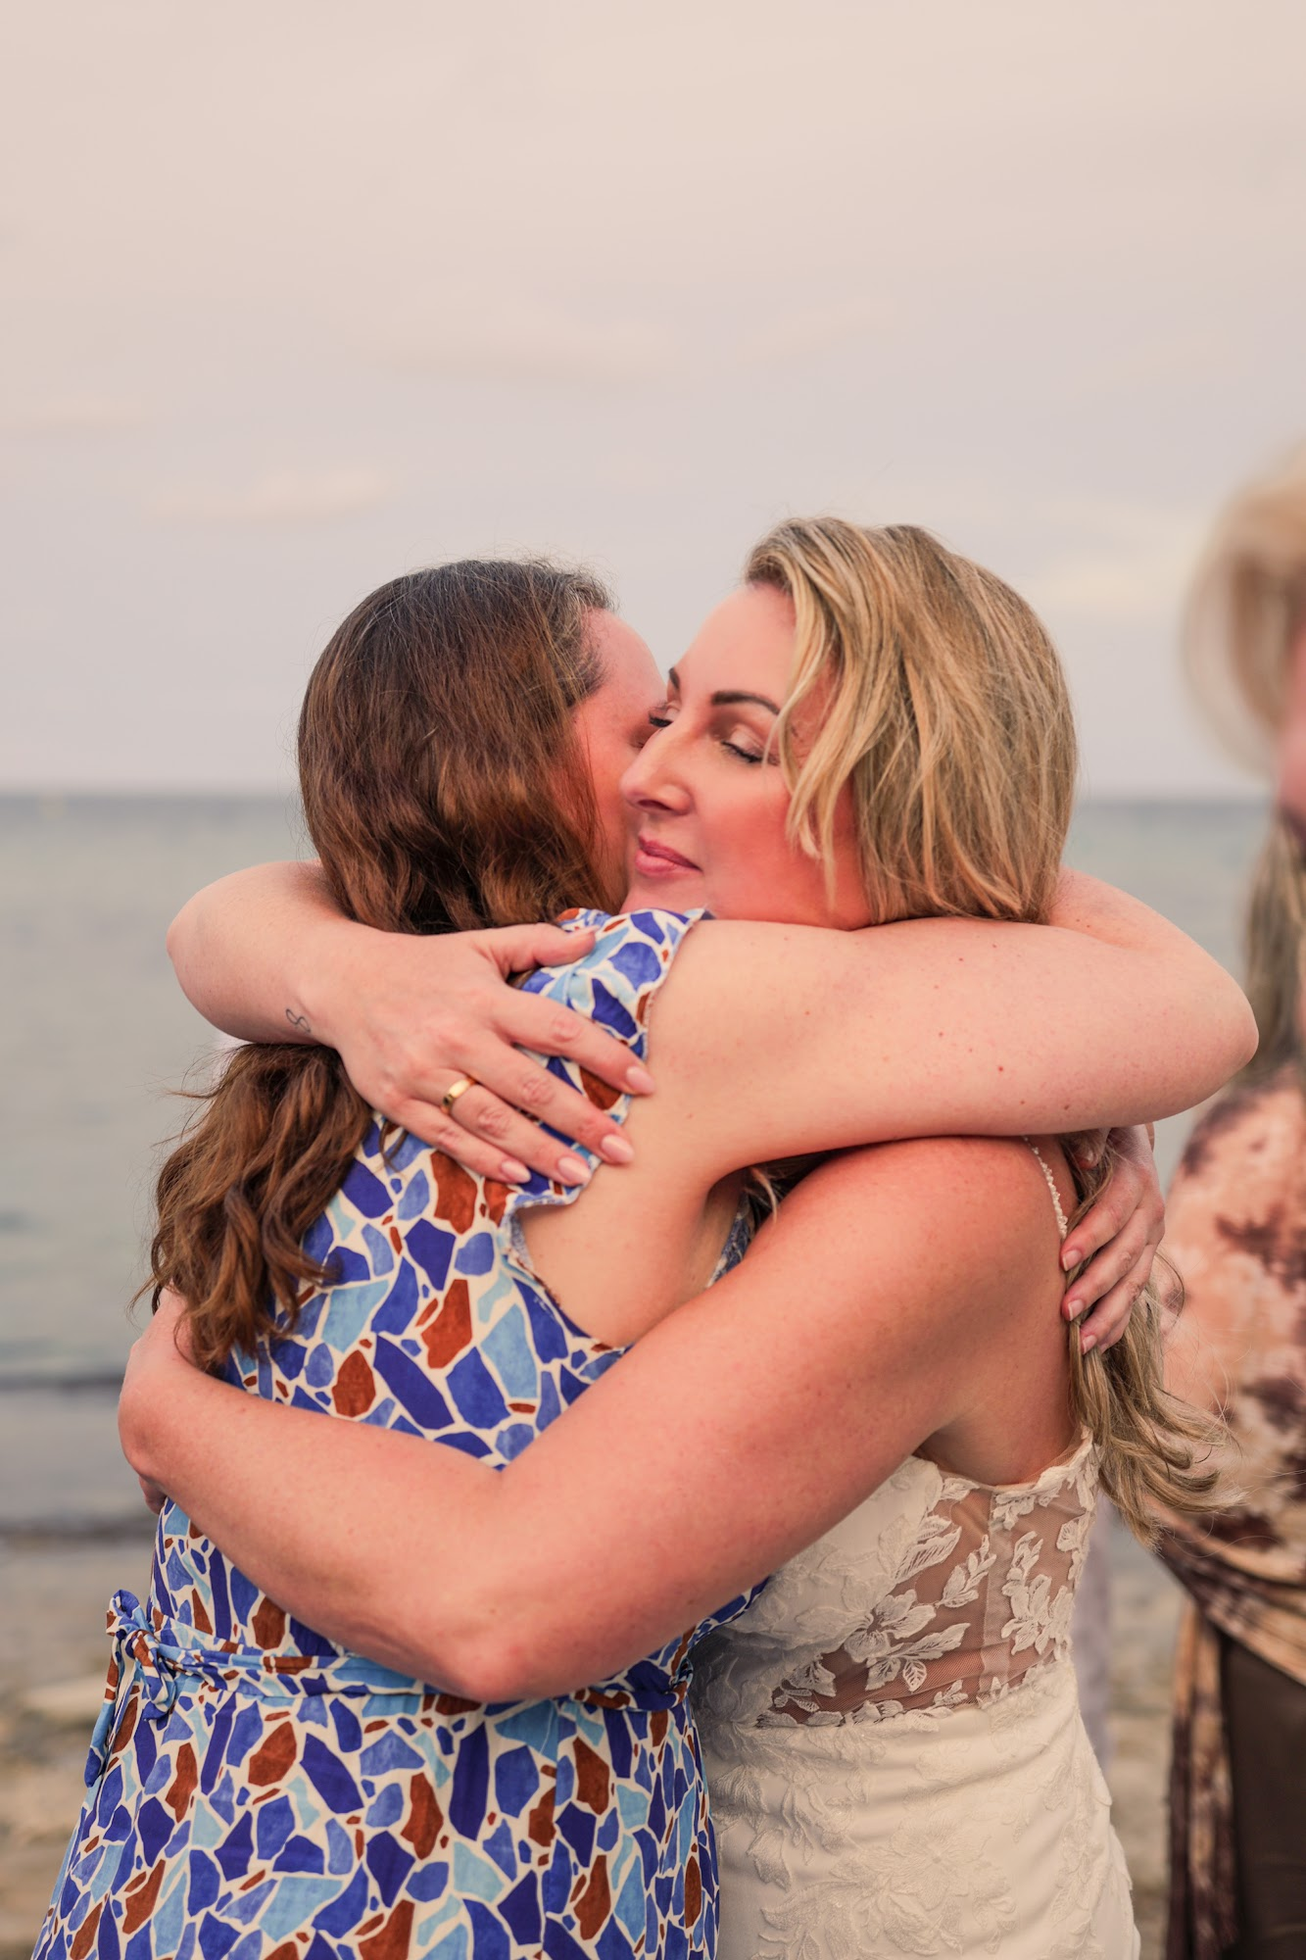
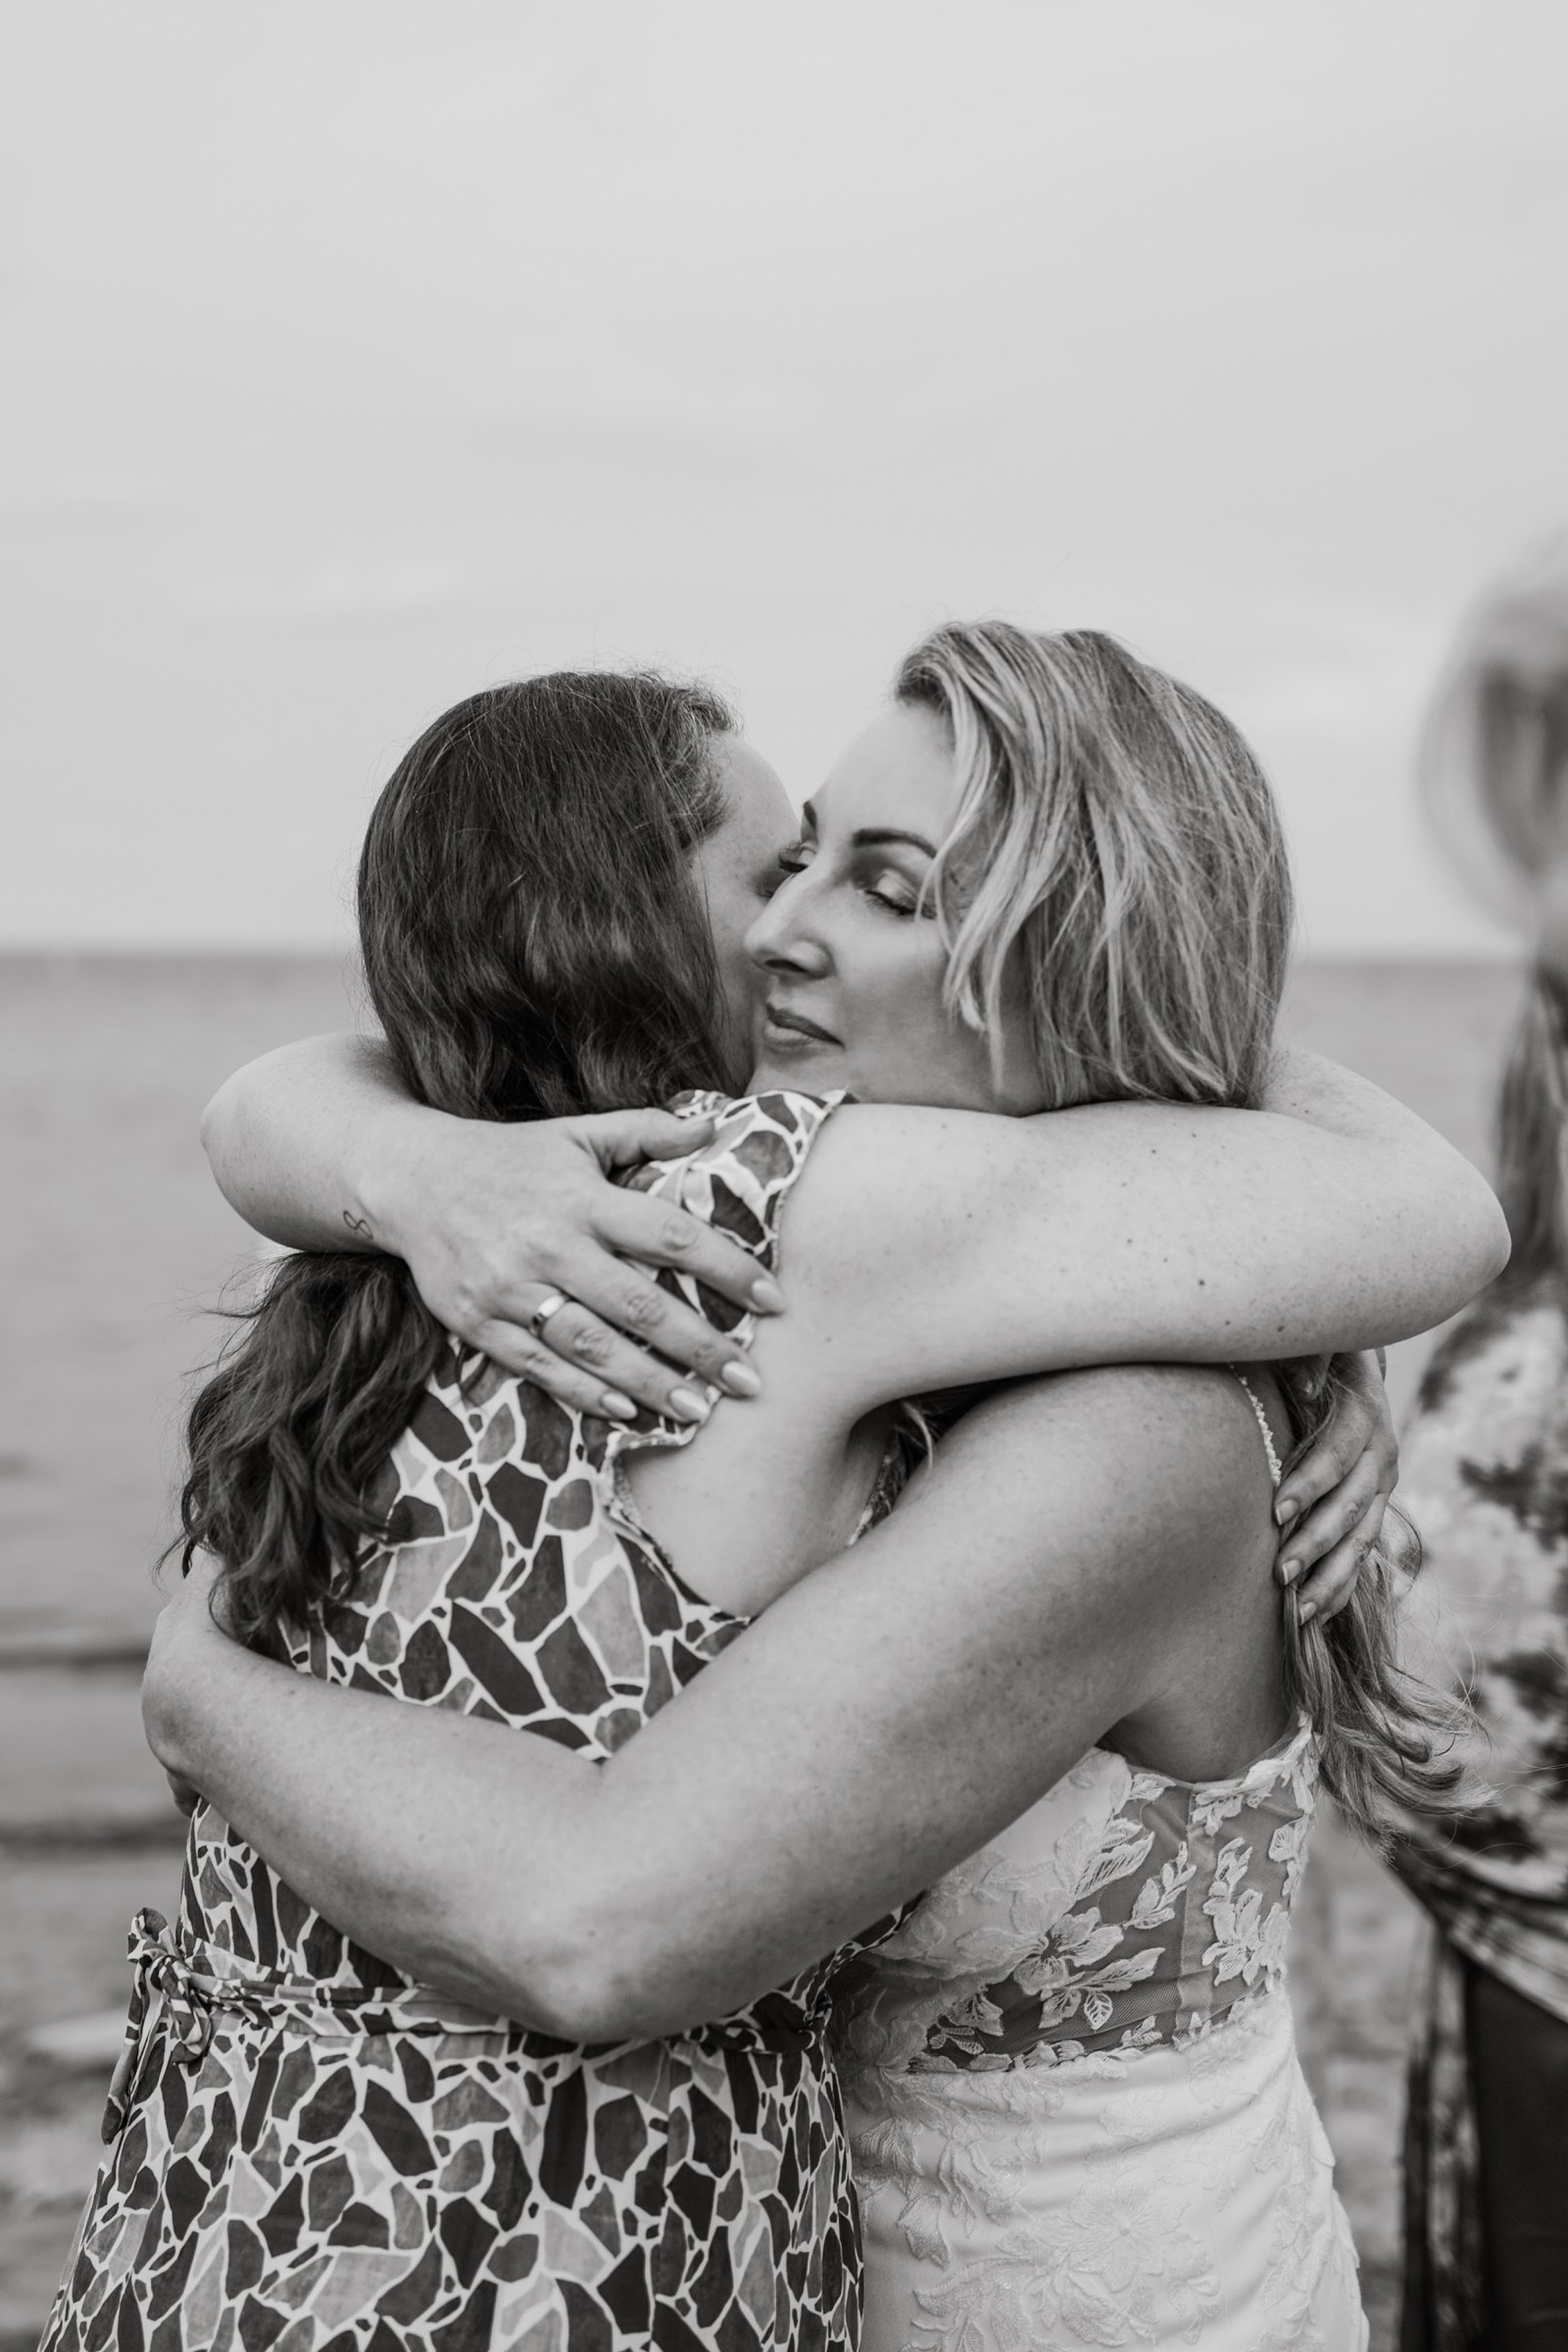
Portada con la selección de fotos de Clara
- 15 fotos nuevas de la boda (5 en blanco y negro) y 4 sustituidas por versiones de más calidad
- Portada: presentación, plano general de la ceremonia a sangre, bloque de bodas, trío en blanco y negro y banda de portfolio con la selección
- Textos de la portada centrados en bodas

Claude-Session: https://claude.ai/code/session_01H74FPhe1UEhSmD7aGRMZvE

diff --git a/src/config/especialidades.ts b/src/config/especialidades.ts
@@ -46,7 +46,7 @@ export const especialidades: Especialidad[] = [
     nombre: 'Bodas',
     busqueda: 'Fotógrafa de bodas',
     categorias: ['Bodas'],
-    portada: 'boda-beso-arco.jpg',
+    portada: 'boda-novios-arco-sonrisa.jpg',
     resumen: 'Vuestro día contado de principio a fin, sin poses forzadas.',
     descripcion:
       'Fotógrafa de bodas en la playa y en la ciudad. Mira una boda real entera, de los preparativos a la foto de familia, y pide disponibilidad para tu fecha.',
